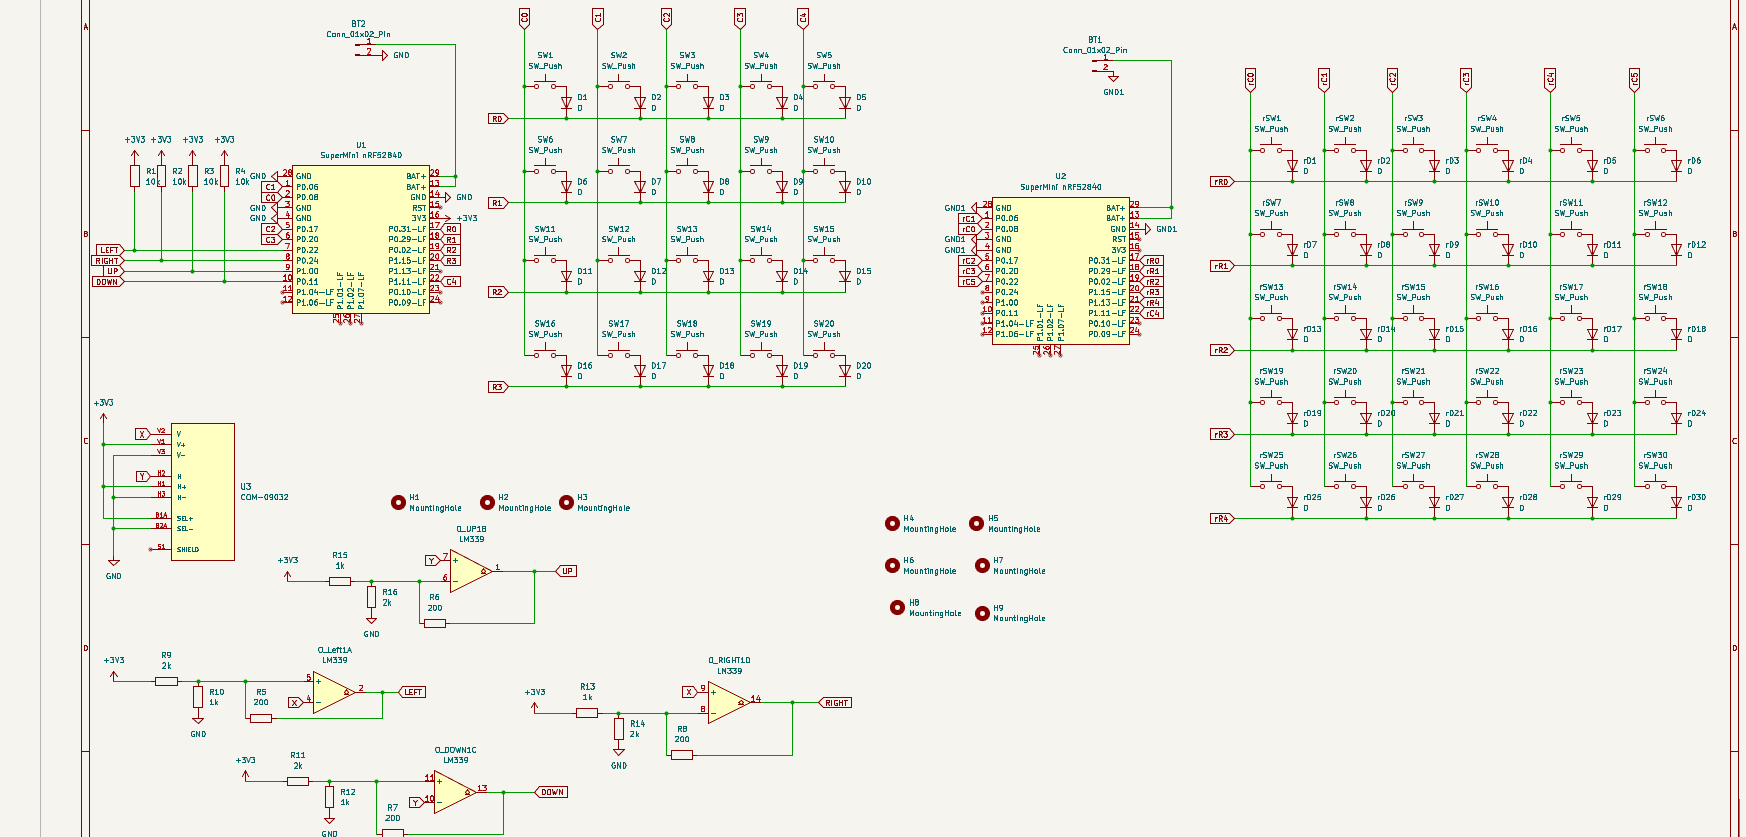
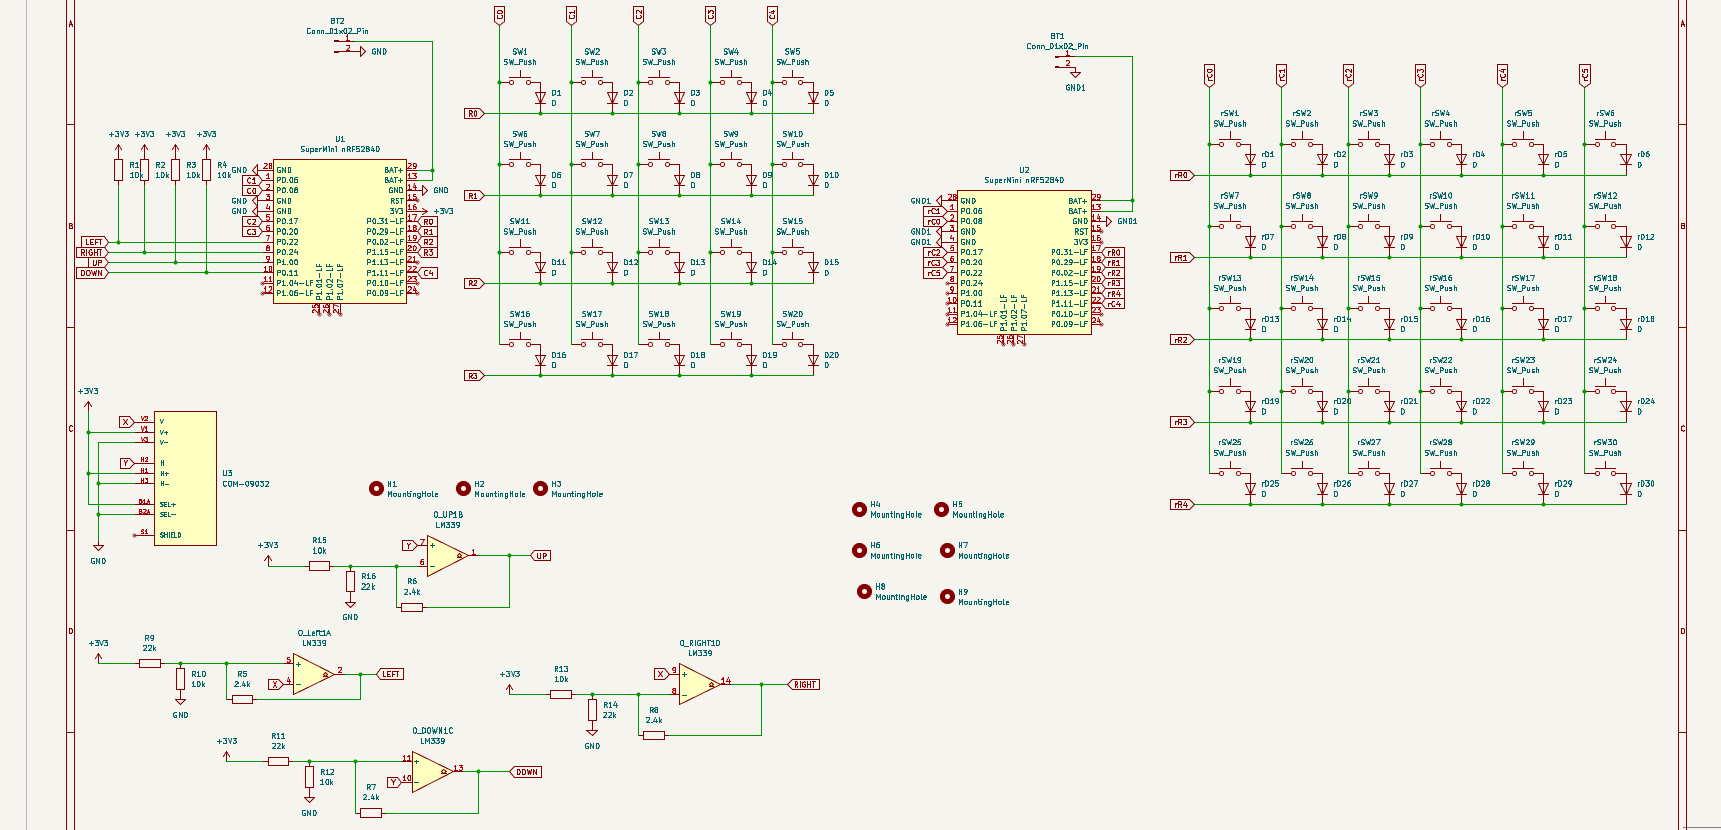
really done

diff --git a/README.md b/README.md
@@ -8,13 +8,10 @@ A custom-built split keyboard with a built in thumb joystick on the left side, r
 
 ##  Features
 
-###  Split Ergonomic Layout
-
-###  Thumb Joystick (Left Side)
-
-### ZMK Studio 
- 
-##  Schematic
+-  Split Ergonomic Layout
+- Thumb Joystick (Left Side)
+- ZMK Studio 
+- Schematic
 
 ![Alt](Assets/S.png)
 
@@ -25,6 +22,10 @@ A custom-built split keyboard with a built in thumb joystick on the left side, r
 ![Alt](Assets/PCB.png)
 
 ---
+
+## Case
+
+![Alt](Assets/Case.png)
 
 ## BOM
 - 2x Pro Micro nRF52840